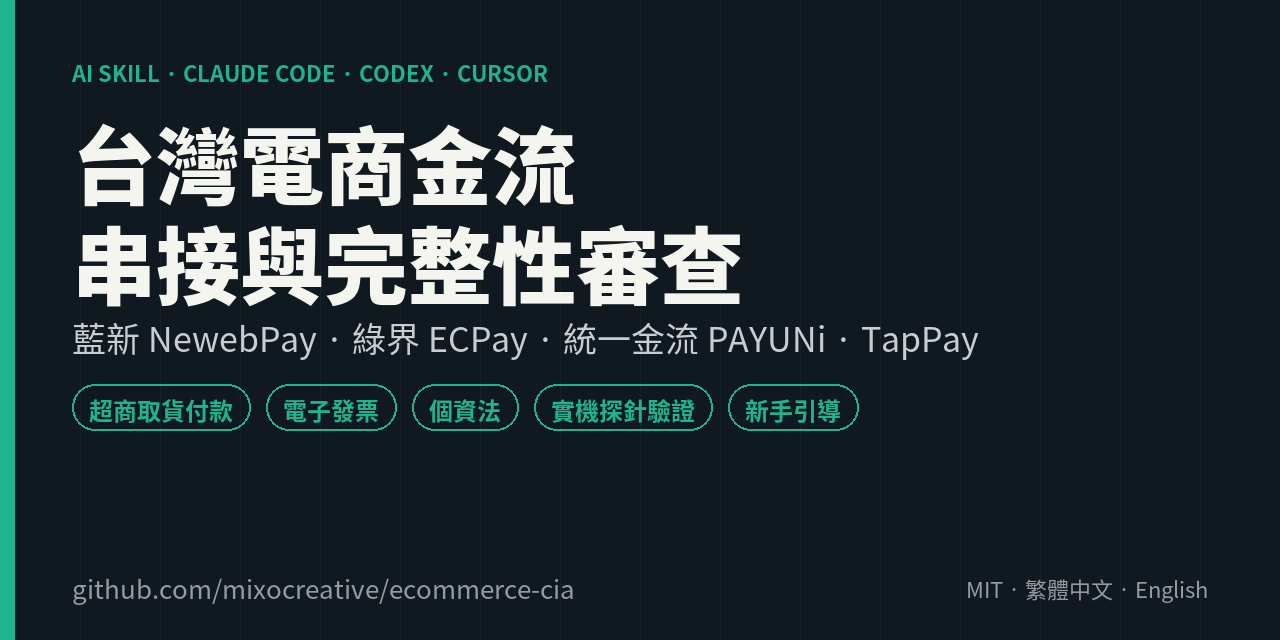
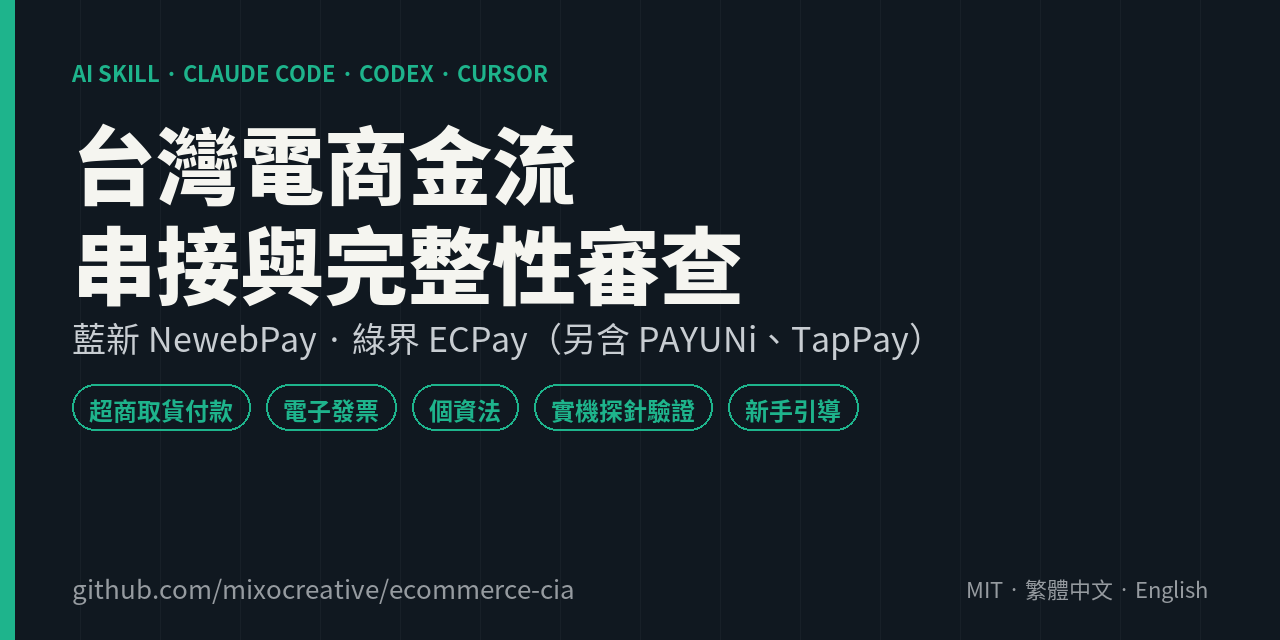
README/preview/description: weight NewebPay and ECPay as the depth; PAYUNi and TapPay marked secondary, documentation-derived

Changed region(s): [[0.4375, 0.5, 0.7812, 0.5625]]

diff --git a/tools/social_preview.py b/tools/social_preview.py
@@ -22,7 +22,7 @@ CARDS = {
     "ecommerce-cia": {
         "kicker": "AI SKILL · CLAUDE CODE · CODEX · CURSOR",
         "title": "台灣電商金流\n串接與完整性審查",
-        "sub": "藍新 NewebPay · 綠界 ECPay · 統一金流 PAYUNi · TapPay",
+        "sub": "藍新 NewebPay · 綠界 ECPay（另含 PAYUNi、TapPay）",
         "chips": ["超商取貨付款", "電子發票", "個資法", "實機探針驗證", "新手引導"],
         "foot": "github.com/mixocreative/ecommerce-cia",
         "accent": (30, 180, 140),

diff --git a/README.md b/README.md
@@ -8,11 +8,11 @@ A skill for Claude Code and OpenAI Codex that audits a transactional e-commerce 
 
 > 這是給 Claude Code 與 OpenAI Codex 使用的 Skill。它將電商系統視為 Stafford Beer 所定義的「可存活系統」（Viable System）來進行稽核，專門抓出只有從這個視野才能發現的 bug：**跨邊界不變量違反**（cross-boundary invariant violations），亦即**整合層級缺陷**或**湧現缺陷**。這類 bug 不會單獨存在於任何一個函式中，而是藏在金流、庫存、訂單資料真正流經的「兩個正確函式之間」。
 >
-> 專為台灣電商情境打造：不管是綠界 ECPay、藍新 NewebPay、統一金流 PAYUNi、TapPay，還是 ATM 虛擬帳號、超商代碼／條碼、超商取貨付款、統一發票跟消保法七天鑑賞期，通通都有獨立專章處理。
+> 專為台灣電商情境打造：不管是藍新 NewebPay、綠界 ECPay，還是 ATM 虛擬帳號、超商代碼／條碼、超商取貨付款、統一發票跟消保法七天鑑賞期，通通都有獨立專章處理。
 
-Since v2.0 it also **starts a shop from zero**: a setup mode that walks a first-time builder through 藍新 NewebPay, 綠界 ECPay, 統一金流 PAYUNi or TapPay — one question at a time with choices, the prerequisite list before any code, the hosting checked before any code, and every payment method proved on by a live probe rather than trusted from a console toggle. It speaks plainly to someone who has never integrated a gateway.
+Since v2.0 it also **starts a shop from zero**: a setup mode that walks a first-time builder through **藍新 NewebPay** (the default, verified live on a real sandbox shop) or **綠界 ECPay** (verified live on ECPay's stage) — one question at a time with choices, the prerequisite list before any code, the hosting checked before any code, and every payment method proved on by a live probe rather than trusted from a console toggle. It speaks plainly to someone who has never integrated a gateway. 統一金流 PAYUNi and TapPay are covered from their documentation as secondary options.
 
-> 自 v2.0 起，它也能**幫你從零開始開一家店**：提供「新手引導模式」，一步步帶領第一次建站的人串接藍新 NewebPay、綠界 ECPay、統一金流 PAYUNi 或 TapPay — 每次只問一個帶有選項的問題、寫 Code 前先確認準備清單、寫 Code 前先檢查主機環境，且每一種付款方式都透過實機探針（Live probe）驗證成功，而不是傻傻相信後台的開關。即使你從來沒串過金流，也能聽得懂白話說明。
+> 自 v2.0 起，它也能**幫你從零開始開一家店**：提供「新手引導模式」，一步步帶領第一次建站的人串接**藍新 NewebPay**（預設選擇，已在真實測試商店實機驗證）或**綠界 ECPay**（已在綠界測試環境實機驗證）— 每次只問一個帶有選項的問題、寫 Code 前先確認準備清單、寫 Code 前先檢查主機環境，且每一種付款方式都透過實機探針（Live probe）驗證成功，而不是傻傻相信後台的開關。即使你從來沒串過金流，也能聽得懂白話說明。統一金流 PAYUNi 與 TapPay 則依官方文件納入，作為次要選項。
 
 ## How this is different from a code review｜這跟一般的 Code Review 到底有什麼不一樣？
 
@@ -235,12 +235,16 @@ The audit assumes an integration exists. When it does not — the user is starti
 
 ## Providers｜支援的金流商
 
+The depth is in **NewebPay and ECPay**: a 330-line NewebPay guide built from a shipped Taiwanese shop's lessons and probes verified on a real sandbox shop; an ECPay guide with the `CheckMacValue` known-answer test and probes verified on ECPay's public stage. PAYUNi and TapPay are documentation-derived secondary guides — correct as far as the vendor pages go, not yet backed by a shipped integration.
+
+> 重點深度都在**藍新 NewebPay 與綠界 ECPay**：藍新有一份 330 行、從真實上線台灣電商踩坑經驗寫成的指南，探針已在真實測試商店驗證；綠界則有 `CheckMacValue` 已知答案測試，探針已在綠界公開測試環境驗證。統一金流 PAYUNi 與 TapPay 是依官方文件整理的次要指南 —— 就官方頁面而言正確，但還沒有真實上線案例背書。
+
 | Provider｜金流商 | Guide + tools｜指南與工具 | Verified｜實測驗證狀態 |
 |---|---|---|
-| 藍新 NewebPay｜藍新 NewebPay | manuals + the 65-document hidden inventory (application forms behind every "why is this method still off"), MPG probe, callback verify/simulate, readiness card｜官方手冊 + 藏在深處的 65 份文件庫（解開「為什麼這個付款方式還沒開通」背後的申請表單）、MPG 探針、Callback 驗證／模擬器、準備就緒卡 | live on a real sandbox shop: 7 methods PASS with the server-side `payType` block; not-enabled → `MPG02003`; wrong key → `MPG03009`｜在真實測試商店實測：7 種付款方式皆 PASS（由伺服器端的 `payType` 區塊確認）；未開通 → `MPG02003`；金鑰錯誤 → `MPG03009` |
-| 綠界 ECPay｜綠界 ECPay | markdown-twin docs by page id, public stage keys, AIO probe, `CheckMacValue` verify/make/sign｜按頁碼 ID 整理的 Markdown 雙生文件、公開測試環境金鑰、AIO 探針、`CheckMacValue` 驗證／壓碼／簽章 | live on ECPay's public stage: PASS; wrong keys → `10200073`; `CheckMacValue` reproduces ECPay's published worked example byte-for-byte｜在綠界公開測試環境實測：過關；金鑰錯誤 → `10200073`；`CheckMacValue` 算出的結果與綠界官方範例逐 Byte 完全吻合 |
-| 統一金流 PAYUNi｜統一金流 PAYUNi | docs via the ShowDoc API, AES-256-GCM envelope, UPP probe reading the page's `JS_INFO` verdict｜透過 ShowDoc API 取得文件、AES-256-GCM 加密包裝、讀取頁面 `JS_INFO` 判決結果的 UPP 探針 | refusal path live (`商店不存在`); PASS path awaits a sandbox shop｜拒絕路徑實測通過（`商店不存在`）；成功路徑待測試商店到位 |
-| TapPay｜TapPay | tokenising SDK model, Pay by Prime, wallets, 3DS notify, dry-run probe｜Token 化 SDK 模型、Pay by Prime、電子錢包、3DS 通知、乾跑（Dry-run）探針 | by documentation; a live probe needs an SDK-issued prime by design｜依據官方規格書比對；按架構設計，實機探針需有 SDK 產生的 Prime |
+| **藍新 NewebPay**（default｜預設） | manuals + the 65-document hidden inventory (application forms behind every "why is this method still off"), MPG probe, callback verify/simulate, readiness card｜官方手冊 + 藏在深處的 65 份文件庫（解開「為什麼這個付款方式還沒開通」背後的申請表單）、MPG 探針、Callback 驗證／模擬器、準備就緒卡 | live on a real sandbox shop: 7 methods PASS with the server-side `payType` block; not-enabled → `MPG02003`; wrong key → `MPG03009`｜在真實測試商店實測：7 種付款方式皆 PASS（由伺服器端的 `payType` 區塊確認）；未開通 → `MPG02003`；金鑰錯誤 → `MPG03009` |
+| **綠界 ECPay** | markdown-twin docs by page id, public stage keys, AIO probe, `CheckMacValue` verify/make/sign｜按頁碼 ID 整理的 Markdown 雙生文件、公開測試環境金鑰、AIO 探針、`CheckMacValue` 驗證／壓碼／簽章 | live on ECPay's public stage: PASS; wrong keys → `10200073`; `CheckMacValue` reproduces ECPay's published worked example byte-for-byte｜在綠界公開測試環境實測：過關；金鑰錯誤 → `10200073`；`CheckMacValue` 算出的結果與綠界官方範例逐 Byte 完全吻合 |
+| 統一金流 PAYUNi（secondary｜次要） | docs via the ShowDoc API, AES-256-GCM envelope, UPP probe reading the page's `JS_INFO` verdict｜透過 ShowDoc API 取得文件、AES-256-GCM 加密包裝、讀取頁面 `JS_INFO` 判決結果的 UPP 探針 | refusal path live (`商店不存在`); PASS path awaits a sandbox shop｜拒絕路徑實測通過（`商店不存在`）；成功路徑待測試商店到位 |
+| TapPay（secondary｜次要） | tokenising SDK model, Pay by Prime, wallets, 3DS notify, dry-run probe｜Token 化 SDK 模型、Pay by Prime、電子錢包、3DS 通知、乾跑（Dry-run）探針 | by documentation; a live probe needs an SDK-issued prime by design｜依據官方規格書比對；按架構設計，實機探針需有 SDK 產生的 Prime |
 
 Default for a first shop built by a non-engineer: NewebPay — one crypto scheme, sandbox refunds work, the store picker is hosted. ECPay when the shop is on WooCommerce, wants a sandbox payment in five minutes, or already holds a contract. PAYUNi when 7-ELEVEN is the channel of record or the 超商代碼 cap (NT$20,000) matters. TapPay when the shop wants its own checkout page and card-on-file with every wallet. Where a vendor ships its own AI skill (ECPay does), this skill defers to it for the API calls and covers everything around them.
 
